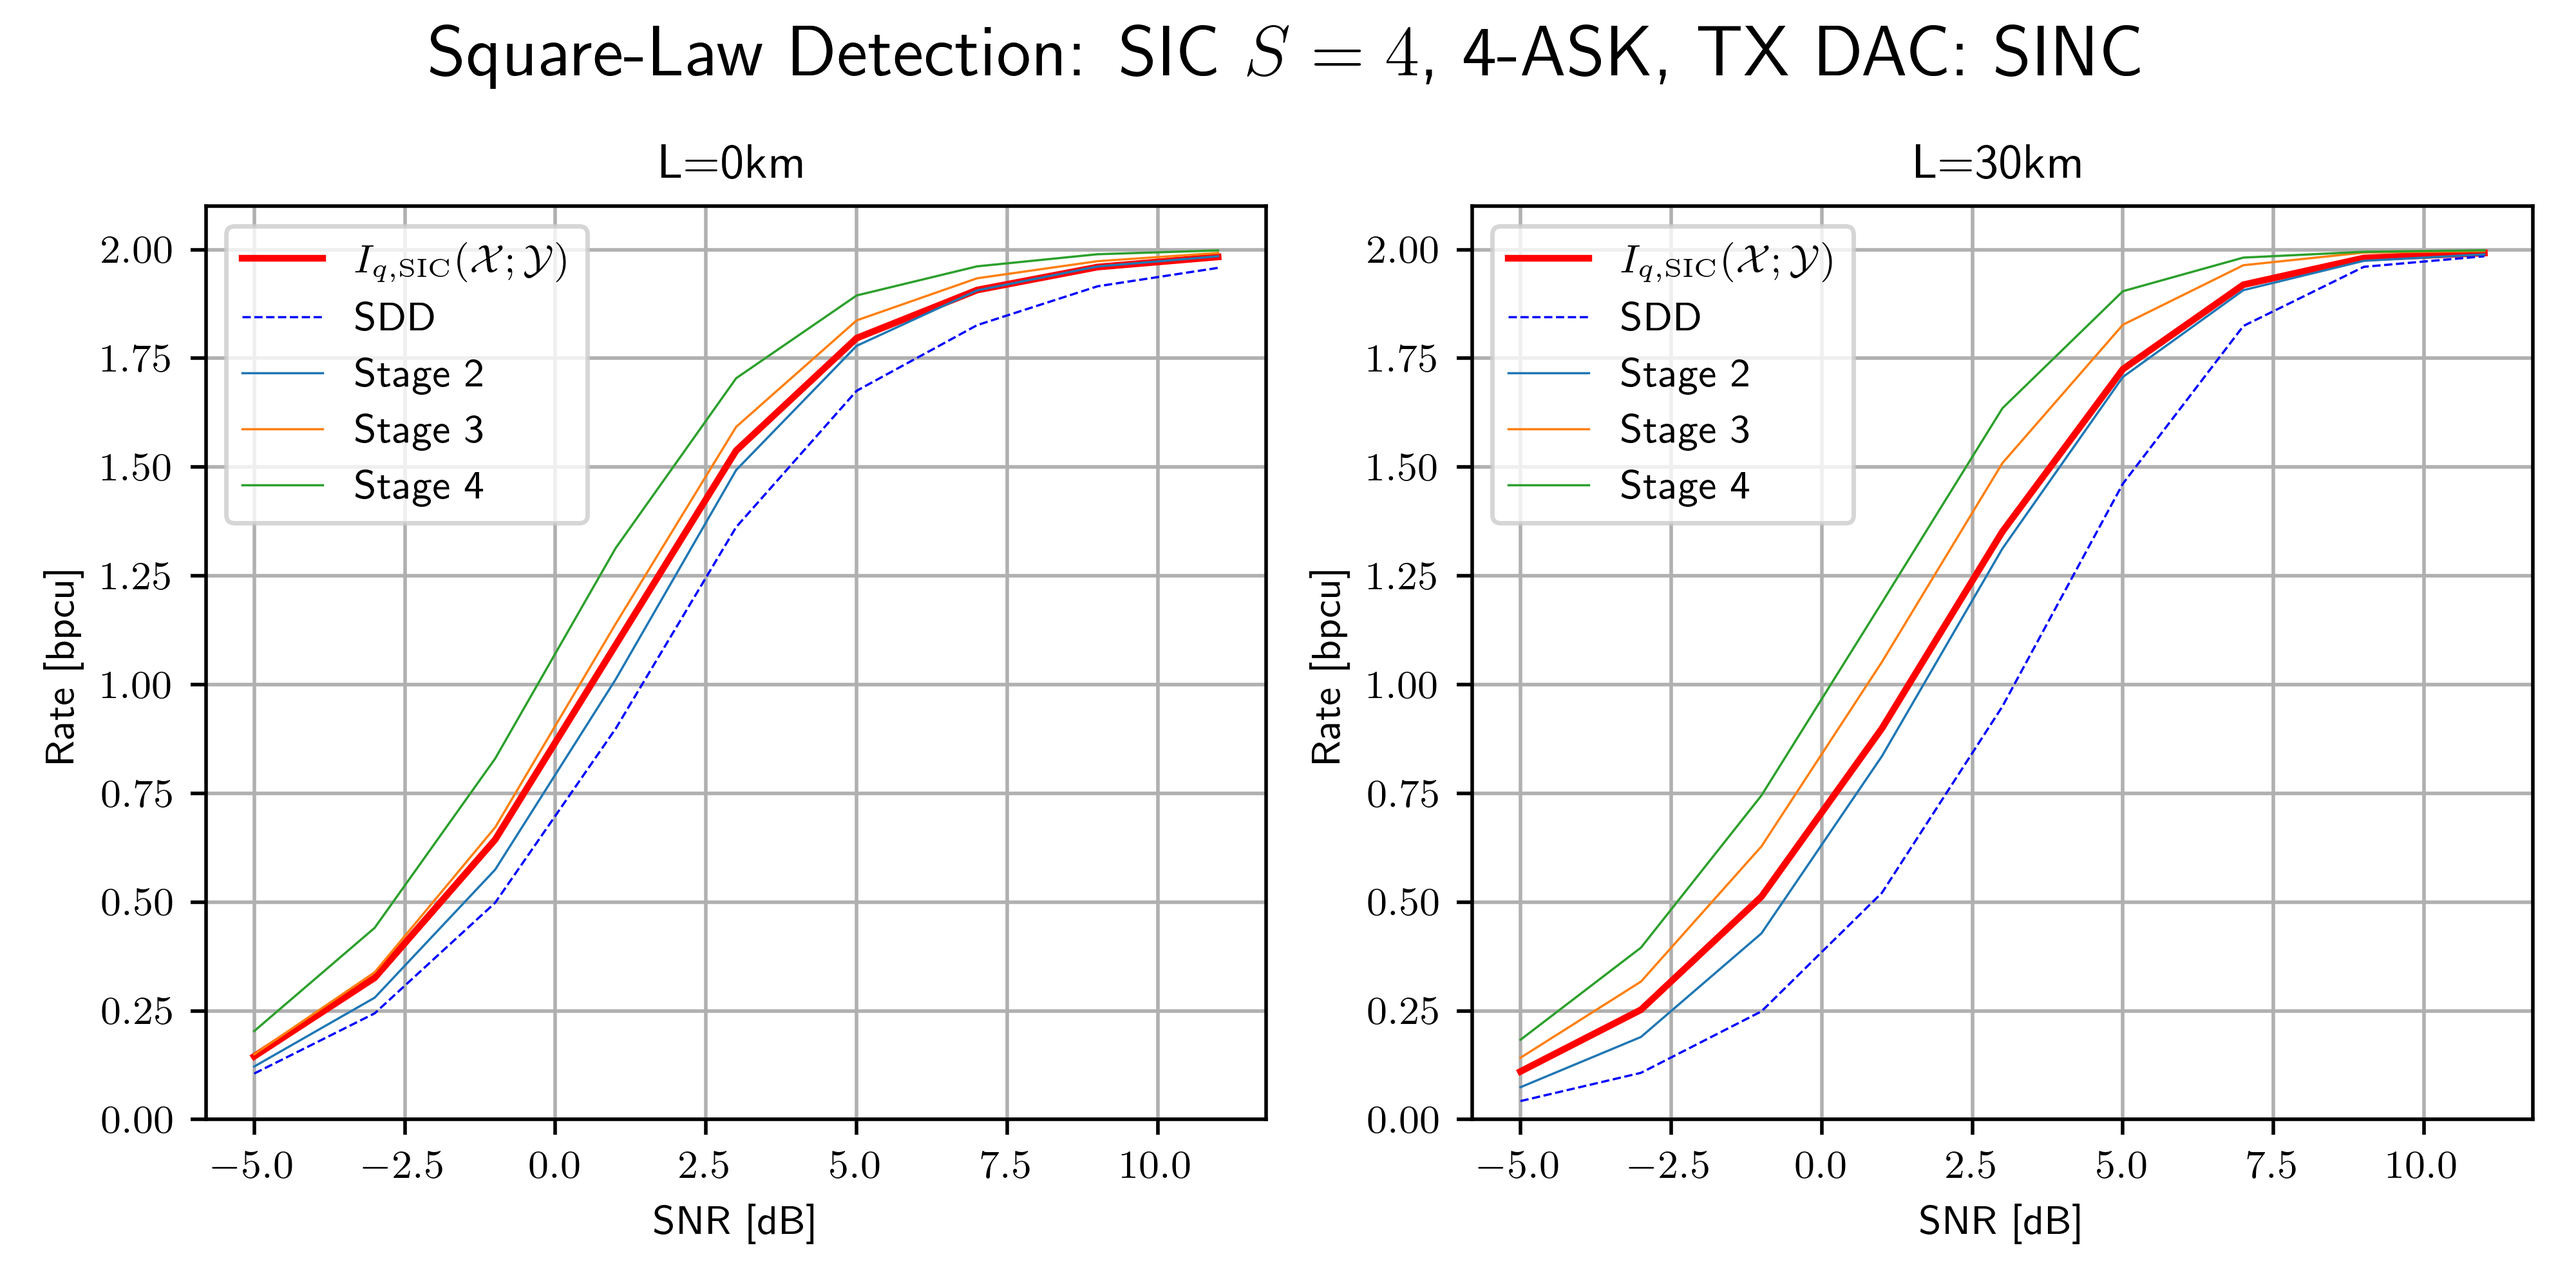
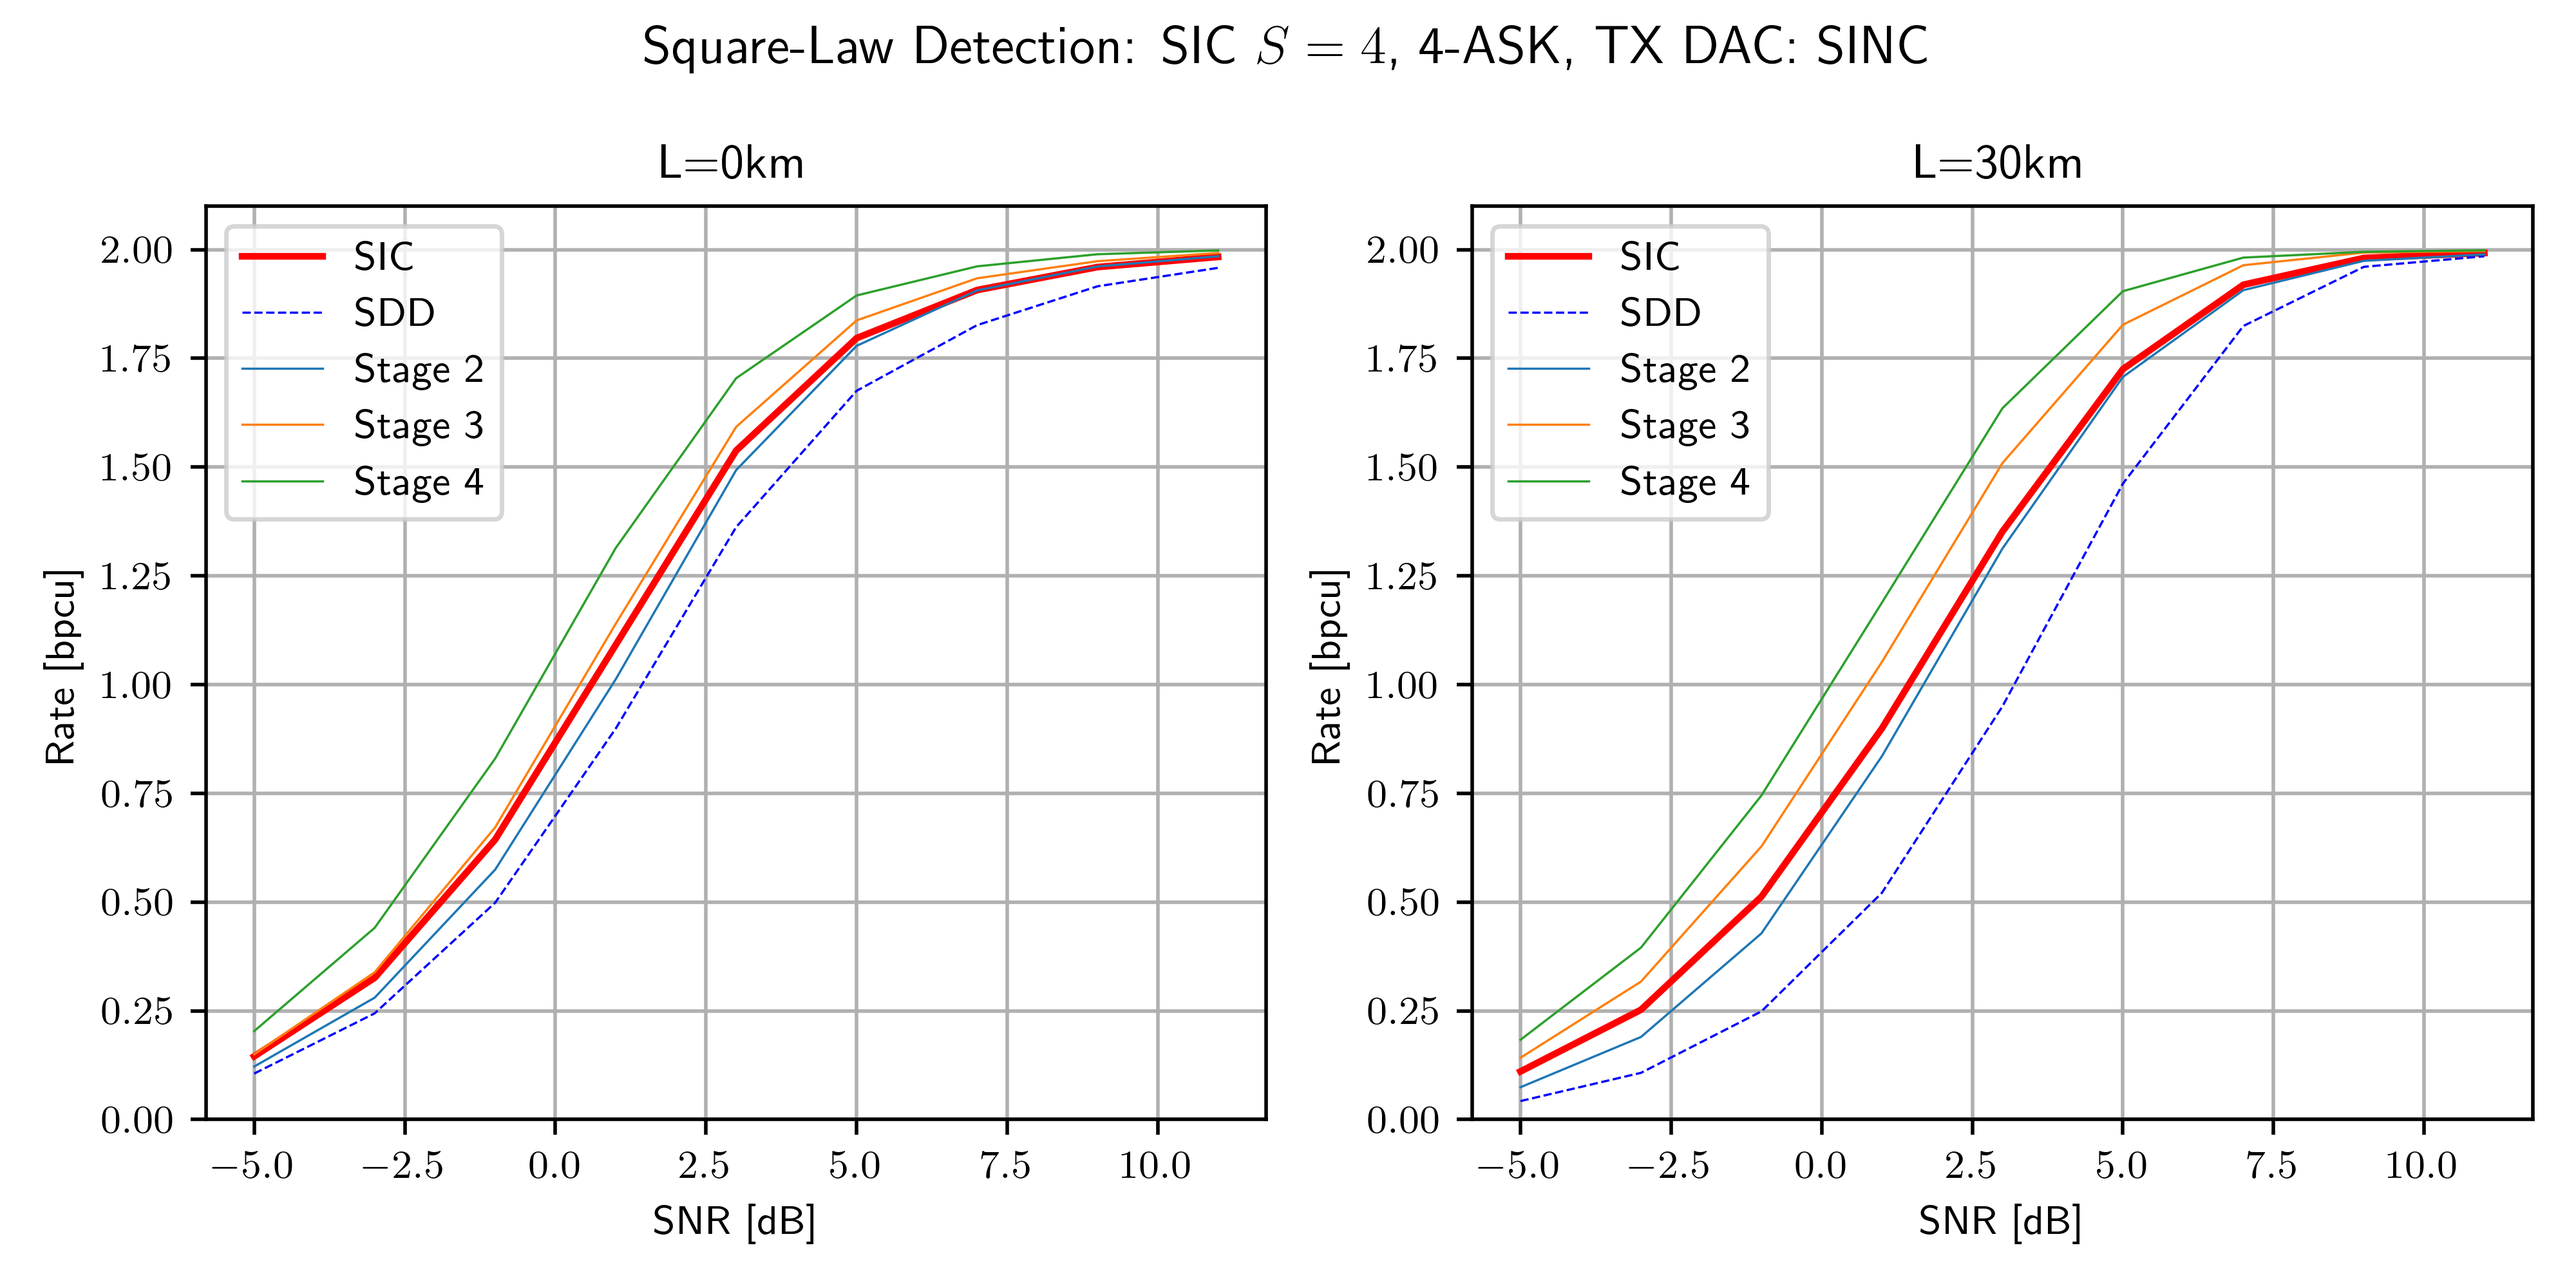
Reformatted plots.

diff --git a/results/ex3_plot.py b/results/ex3_plot.py
@@ -47,9 +47,9 @@ plt.plot(SNRdB, 1 / 2 * np.log2(1 + SNRdBlin), "k-", linewidth="0.5")
 plt.legend(
     (
         "Linear",
-        "SDD, $N_\mathrm{os}=1$, $P_\mathrm{max}= 9\mathrm{dBW}$",
-        "SDD, $N_\mathrm{os}=4$, $P_\mathrm{max} = 9\mathrm{dBW}$",
-        "$S=2$, $N_\mathrm{os}=4$, $P_\mathrm{max}= 9\mathrm{dBW}$",
+        "SDD, $N_\mathrm{os}=1$, $P_\mathrm{max}= 7\mathrm{dBW}$",
+        "SDD, $N_\mathrm{os}=4$, $P_\mathrm{max} = 7\mathrm{dBW}$",
+        "$S=2$, $N_\mathrm{os}=4$, $P_\mathrm{max}= 7\mathrm{dBW}$",
         "Gaussian",
     ),
 )
@@ -61,8 +61,8 @@ plt.xlim((-5, 30))
 plt.ylim((0, 2))
 
 plt.title(
-    r"$4$-ASK, Baseband Communication System with AWGN and TANH Transmit Power Amplifier",
-    fontsize=11,
+    r"$4$-ASK, Baseband Communication with AWGN and Nonlinear Transmit Power Amplifier",
+    fontsize=12,
 )
 
 plt.savefig("png/ex3.png", dpi=500)

diff --git a/results/ex1_plot.py b/results/ex1_plot.py
@@ -28,7 +28,7 @@ for j in np.arange(len(filename)):
 
 ax1.legend(
     (
-        "$I_{q,\mathrm{SIC}}(\mathcal{X};\mathcal{Y})$",
+        "SIC",
         "SDD",
         "Stage 2",
         "Stage 3",
@@ -62,7 +62,7 @@ SNRdB = MATj[:, 0]
 
 ax2.legend(
     (
-        "$I_{q,\mathrm{SIC}}(\mathcal{X};\mathcal{Y})$",
+        "SIC",
         "SDD",
         "Stage 2",
         "Stage 3",
@@ -77,7 +77,7 @@ ax2.grid(1)
 
 fig.tight_layout()
 fig.subplots_adjust(top=0.84)
-fig.suptitle(r"Square-Law Detection: SIC $S=4$, 4-ASK, TX DAC: SINC", fontsize=16)
+fig.suptitle(r"Square-Law Detection: SIC $S=4$, 4-ASK, TX DAC: SINC", fontsize=12)
 
 plt.savefig("png/ex1.png", dpi=500)
 plt.show()

diff --git a/results/ex2_plot.py b/results/ex2_plot.py
@@ -123,7 +123,7 @@ fig.tight_layout()
 fig.subplots_adjust(top=0.84)
 fig.suptitle(
     r"Linear: SDD: $S=1$,TX DAC: RRC, roll-off $\alpha=0.3$, RX: Matched filter",
-    fontsize=14,
+    fontsize=12,
 )
 
 plt.savefig("png/ex2a.png", dpi=500)
